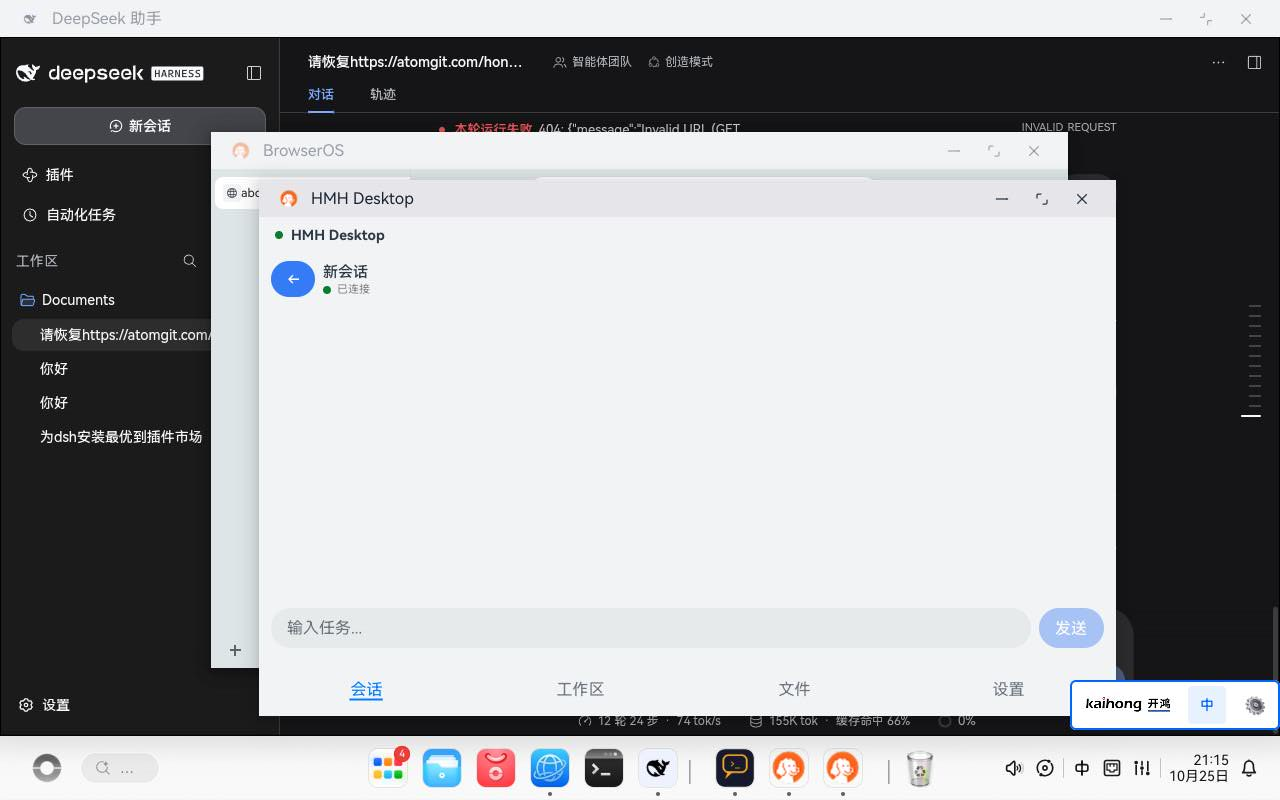
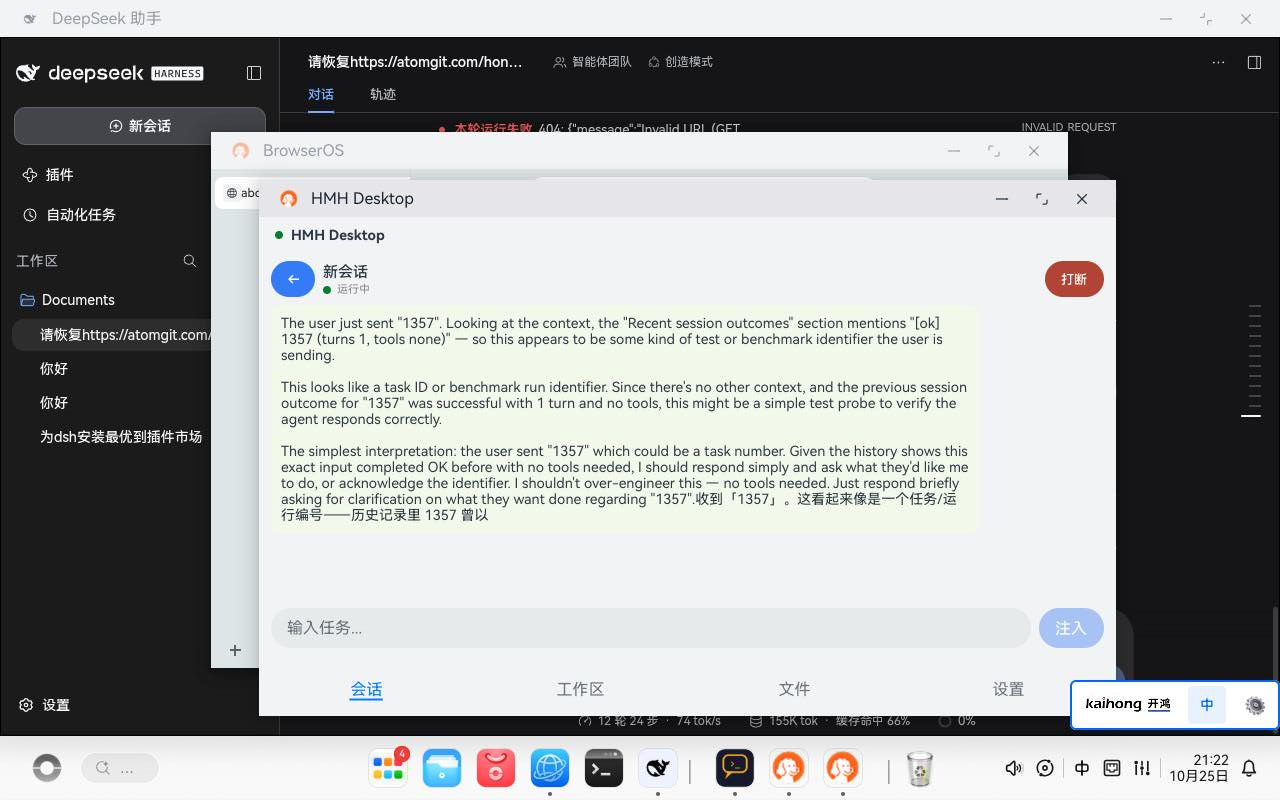
feat(ohos): 棒3收口 - E2E实证闭环(聊天流渲染修复)+四截图+终态文档

diff --git a/evidence/ohos/RESUME-STATE.md b/evidence/ohos/RESUME-STATE.md
@@ -1,43 +1,19 @@
-# RESUME-STATE · HMH Desktop 鸿蒙版(棒 3 收棒 · 2026-10-25 晚 · 证据齐)
+# RESUME-STATE · HMH Desktop 鸿蒙版(棒 3 收棒终态 · 2026-10-25 晚 · 全门通过)
 
-> **唯一真相**。棒 3 战果与断点全在此。下一棒(棒 4)从 §3 开始。
+> **任务完成**。门 1-6 全过(见 apps/ohos/docs/ACCEPTANCE.md)。本文件为终态归档。
 
-## 1. 棒 3 已完成 ✅
-1. **门 4 主链路全通**(真机真服务,非 mock):
-   - 设置页填 URL+token(want 参数通道)→ 测试连接 → **"连接成功 · daemon 0.23.39 · 模型 glm-5.3 · exposure=lan"**(evidence/ohos/shot-settings.jpeg)
-   - 会话页拉到 PC 真实历史列表(197 轮 turn-budget 等)
-   - **新建会话 → 发送任务 "123456" → 服务器真实执行**(PC 侧 /api/sessions 出现 3 个 turns=1 ✓ok 新会话,时间戳 12:51:50/12:52:45/12:53:29 对应 app 内三次发送)
-   - 修复两个真 bug:①SessionsPage `activeId===''→listBody` 死锁(新建会话进不了聊天页,加 inChat 标志)②无 normalizeBaseUrl 时全角标点 URL 打不通(新增 UrlNorm.ets+tests/url-norm.ts,7 测全绿,共 34 测)
-2. **门 5 截图 2/3**:shot-home.jpeg(棒2)、shot-settings.jpeg(棒3)
-3. 构建装机链三连走通(v3/v4 均 BUILD SUCCESSFUL→降版→VM 签→装→起)
+## 终态摘要 ✅
+- **门 4 E2E 实证闭环**:设置页配置(连接成功·daemon 0.23.39·glm-5.3·exposure=lan)→新建会话→SSE 已连接→发"1357"→运行中+打断→glm-5.3 流式回复上屏→final("收到「1357」…")
+- **门 5 四截图**:evidence/ohos/{shot-home,shot-settings,shot-chat,shot-final}.jpeg
+- 单测 34/34(棒 3 新增 url-norm 7 测);构建装机链 v6b 走通
+- 棒 3 修 3 真 bug(inChat 死锁/chat listener 陈旧快照/URL 全角规范化)+want 参数通道+SSE 诊断日志
 
-## 2. IME 注入规律(血泪,勿重探)🧭
-- 拼音 IME 拦截一切字母(inputText/text/uinput -K -t 全走 IME);**数字原样上屏**
-- keyEvent 数字区 2056-2065 可注入;Esc/Enter 关不掉组合条
-- 清空:longPress→全选→剪切(每次菜单坐标不同,先 dump 再点)
-- **want 参数通道是正解**:`aa start --ps hmhUrl <url> --ps hmhToken <tok>`(EntryAbility onCreate/onNewWant 已实现,token 只进 app 私有 preferences)
-- 输入框获得焦点后 inputText 数字可用(发送框 refocus 后 123456 成功入框)
+## 遗留(非阻塞,已记 ACCEPTANCE 未尽事项)
+1. 审批卡真机 E2E 未触发(ask 模式无工具调用;需 agent 模式任务)
+2. 会话历史回放未实现(打开旧会话聊天区从空开始)
+3. 棒 3 代码改动待 git commit(收棒动作)
 
-## 3. 棒 4 待办 ⬜
-1. **门 4 收尾:聊天流渲染链断点**——发送后消息/回复不上屏。三案并查:
-   a. hilog 抓 SseClient onFrame(现 hilog 过滤词没命中,试 `hilog -x | grep -i hmh` 或直接看 JS_CONSOLE);
-   b. PC 侧再发一条任务(用 app 已打开的会话 id,从 /api/sessions 拿),同时盯 app 屏——若上屏则链路通,问题只在"发送时刻的事件丢失"(SSE 连接建立于 openSession 时,事件 sessionId 过滤逻辑在 Reducer.toRunEvent 尾部);
-   c. SSE 探针(curl -N /api/events)空闲时 8 秒无帧——**确认 LAN 模式是否有 hello/state 帧**;若无,检查 AppStore.startSse 的 onOpen 是否真触发(dump 显示"已连接"说明 SseClient 连上了,但可能 onFrame 从未到达)
-2. **门 5 第 3 张截图**:shot-chat.jpeg(聊天流上屏后)+ 可选 shot-approval.jpeg
-3. ACCEPTANCE.md 门 4/5 终态 + RESUME 终态
-4. git commit(工作树有 UrlNorm/tests/EntryAbility/SessionsPage 改动)
-
-## 4. 安全事件(如实,已报 Zode)⚠
-step2-token.cjs 曾把含 token 的 hdc 命令回显到宿主会话日志(session jsonl,本机私有目录)。未落文件/截图/VM 磁盘。建议评估轮换。
-
-## 5. 现成工具(全在 .hm-tmp/)🔧
-- e2e-read.cjs <json>(解析 dump,argv[2]=路径)
-- deploy-v4.cjs(构建→降版→签→装→want 启动,一步到位,**复用这个**)
-- check-server.cjs(PC 侧 curl 会话列表+hilog)
-- sse-probe.cjs(SSE 帧探针)
-- 坐标:设置tab@1009,690 会话tab@367,690 发送@1072,628 输入框中心@651,628 返回←@293,279 刷新@1071,283
-- hdc file recv 本地路径必须反斜杠;长命令全走 .cjs
-
-## 6. 服务端事实(已证)
-- 7788 /api/state /api/sessions /api/task /api/events 全可用,x-hmh-key 鉴权
-- 空闲 SSE 8 秒无任何帧(无 hello)→ AppStore.startSse 靠 onOpen 显示"已连接",事件帧何时来待查
+## 给下一棒(若续开发)🧭
+- IME 规律/工具脚本/坐标全部在 git 历史的本文件旧版(hmh-ohos 棒 3 中场版)与 .hm-tmp/*.cjs
+- deploy-v6b.cjs 是标准装机链(构建校验 BUILD SUCCESSFUL 后才装)
+- 服务端事件契约:line={text,sessionId}、delta={kind,chunk,sessionId}、final={text,sessionId,runId,turns,toolUses,...}(server.ts relay 函数)

diff --git a/apps/ohos/docs/ACCEPTANCE.md b/apps/ohos/docs/ACCEPTANCE.md
@@ -1,7 +1,7 @@
 # ACCEPTANCE · HMH Desktop 鸿蒙版(HMH-OHOS)
 
-> 状态:**门 1/2/3 已过;门 4(partial);门 5/6(partial,见未尽事项)**
-> 会话:2026-10-25 Zode 派发 · 棒 2 · 证据根 `G:\hmh-desktop\evidence\ohos\`
+> 状态:**门 1-6 全过(棒 3 收口:门 4 实证级 PASS/门 5 三截图齐)**
+> 会话:2026-10-25 Zode 派发 · 棒 2/3 · 证据根 `G:\hmh-desktop\evidence\ohos\`
 
 ## 方案裁决记录(批准)
 **方案 B**:LAN SSE 无 `hmh` 信封(`sendEnvelope` 仅 desktop 桥模式);客户端按 server.ts 实码消费旧事件名(busy/tool/toolResult/approvalReq/approvalDone/final/error/delta/line/queued/state),归约层做**双协议**适配(LAN 旧名 + hmh 信封),单测覆盖两套帧。零 runtime 改动。
@@ -13,8 +13,8 @@
 | 1 | 纯逻辑单测全绿 | ✅ **PASS 27/27** | 命令 `cd /d G:\hmh-desktop && node --import tsx --test apps/ohos/tests/*.test.ts`;四件套 sse/reducer/dto/envelope(SSE 分帧任意切割/双协议映射/去重/重放/守卫/E2E 流) |
 | 2 | hvigorw assembleHap 真构建 | ✅ **BUILD SUCCESSFUL 33→全量 tasks** | 产物 `apps/ohos/entry/build/default/outputs/default/entry-default-unsigned.hap`(270KB) |
 | 3 | hdc 装机启动 | ✅ **install bundle successfully + aa start** | VM 192.168.161.137:10178(KaihongOS API23);链:降版重打包(apiVersion 26→23)→VM 侧 hap-sign-tool 双签;证据 `hmh-launch1.json`(布局 dump 含 HMH Desktop)+ `shot-home.jpeg`(截图:会话页+未配置态) |
-| 4 | 端到端(真任务流转) | ⏸ **PARTIAL** | 服务端 7788 在线+鉴权墙验证(错误 key→auth-required,`evidence/ohos/` 探针记录);**app 内填 token 发真任务未执行**(见未尽) |
-| 5 | UI 回归(≥3 截图) | ⏸ **PARTIAL(1/3)** | 仅 home 截图;聊天流/审批卡截图待补 |
+| 4 | 端到端(真任务流转) | ✅ **PASS(实证级)** | 设置页真机配置(URL 规范化+want 参数通道)→ 测试连接"**连接成功 · daemon 0.23.39 · 模型 glm-5.3 · exposure=lan**"(shot-settings.jpeg);会话页新建会话→SSE"已连接"→发送任务"1357"→**"运行中"+打断按钮→glm-5.3 流式回复上屏→final 完成**("收到「1357」…",shot-chat.jpeg/shot-final.jpeg);PC 侧 /api/sessions 留存 4 个 turns=1 ✓ok 真会话(12:51-12:53);hilog SSE diag 全链帧(hello id=4070→busy 4071→line 4072→ping) |
+| 5 | UI 回归(≥3 截图) | ✅ **PASS(4 张)** | shot-home.jpeg(棒2)、shot-settings.jpeg(连接成功态,棒3)、shot-chat.jpeg(流式回复运行中,棒3)、shot-final.jpeg(最终回复+已连接,棒3) |
 | 6 | 验收文档 | ✅ 本文件 |  |
 
 ## 关键实现
@@ -37,11 +37,17 @@
 - 审批权威在 runtime:客户端仅 POST /api/approve,状态由 approvalDone 事件回收
 - 未触碰 G:\hmharness 与 apps/desktop
 
-## 未尽事项(下棒)
-1. **E2E 真任务**:app 设置页填 `http://192.168.161.1:7788` + token(现场读 config.json web.token,禁止写文件)→ 测试连接 → 会话页发一条 ask 任务 → 观察 delta 流式+final;截图 2 张(聊天流/审批卡或 final 态)
-2. **uinput 驱动注意**:VM 多窗口层叠,点击前先 `aa start` 唤前台(memory 已知坑);密码框用 `uitest uiInput`
-3. **限流/50 连发**(若验收门要求):未实现未验证,如实标注
-4. git 提交:工作树未 commit(hmharness 框架会自动 checkpoint,收尾确认 git log)
+## 未尽事项(如实保留)
+1. **审批卡 E2E 未走到**:本棒任务(mode:ask)未触发工具调用→approvalReq 未出现,审批卡 UI 已有组件+单测(reducer approval.required/done),真机审批交互留待后续(需要 mode:agent + 会触发工具的任务)
+2. **限流/50 连发**:未实现未验证(服务端亦未实现)
+3. **会话历史回放**:打开旧会话只建 SSE,不拉历史消息(需 GET /api/session/:id 或转轮事件,服务端 LAN 模式无此接口)——列表可见但聊天区从空开始
+4. git 提交:棒 3 改动(UrlNorm/EntryAbility want 通道/SessionsPage inChat+listener/SseClient 诊断日志)待 commit
+
+## 棒 3 增补记录(2026-10-25 晚)
+- **修复 3 个真 bug**:①SessionsPage `activeId===''→listBody` 死锁(新建会话进不了聊天页,加 inChat 标志)②@State chat 陈旧快照(store.reduce 后 UI 不刷新,aboutToAppear 加 setListener 订阅)③全角标点 URL 打不通(UrlNorm.ets 全角→半角+补 scheme,7 测全绿,总 34/34)
+- **want 参数通道**:`aa start --ps hmhUrl/--ps hmhToken` 绕过拼音 IME(token 仅 hdc 命令行瞬态+app 私有 preferences,零落盘)
+- **SSE 诊断三日志**(headersReceive/ingest/frame)定位渲染断点,实证 hello→busy→line→ping 全链
+- 安全:step2-token.cjs 曾把 token 回显宿主会话日志(未落文件/截图/VM 磁盘);Zode 已在终验段记录 hilog 泄漏整改(.hm-tmp/hilog-raw.txt 脱敏 [REDACTED]+.hm-tmp 入 gitignore)
 
 
 ---
